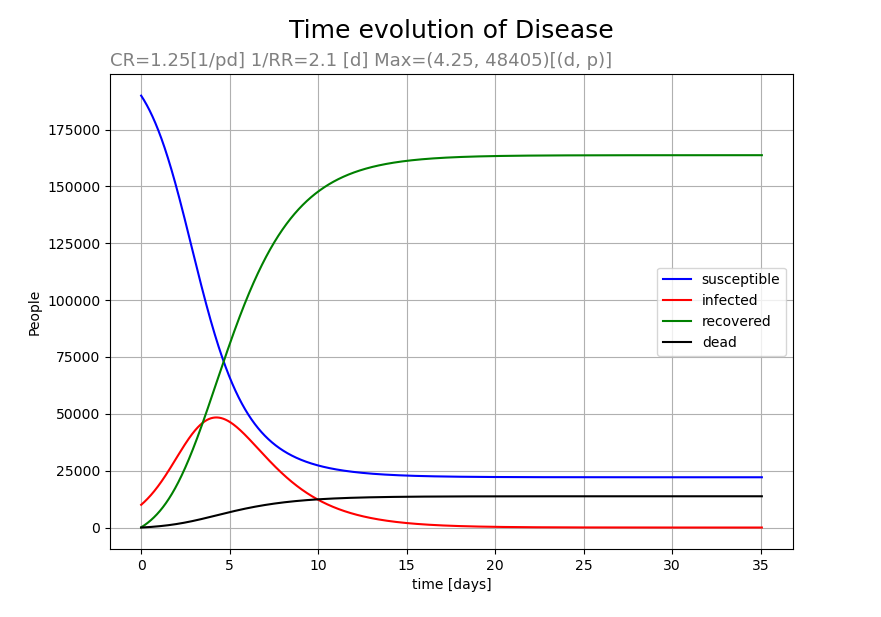
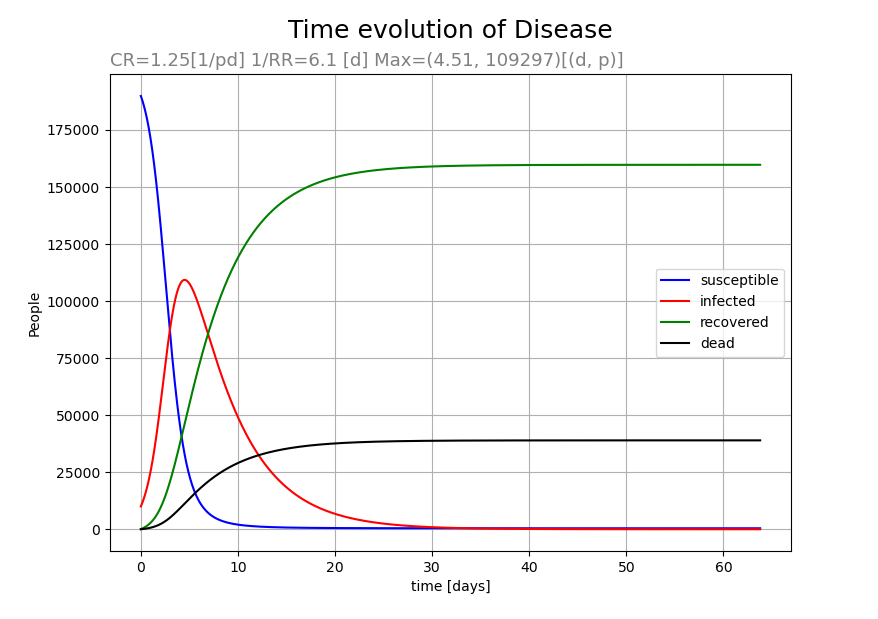
update

diff --git a/fitData.py b/fitData.py
@@ -249,8 +249,8 @@ if __name__ == '__main__':
     ## INPUTS
     # =========================================================================
      
-    date_min = datetime(2020, 3, 1)        # lower bound of data range
-    date_max = datetime(2020, 3, 28)        # upper bound of data range
+    date_min = datetime(2020, 3, 17)        # lower bound of data range
+    date_max = datetime(2020, 3, 26)        # upper bound of data range
     date_prediction = datetime(2020, 3, 28) # prediction 
     # =========================================================================
     getRatesForDateRanges(date_min, date_max, date_prediction, graph=True)
@@ -259,29 +259,29 @@ if __name__ == '__main__':
     #===========================================================================
     #     ITERATION OF RANGE WITH delta_days WINDOW
     #===========================================================================
-    date_min = datetime(2020, 3, 1)        # lower bound of data range
-    date_max = datetime(2020, 3, 28)        # upper bound of data range
-     
-    delta_days = 1 # window of days for the mean( 2*delta_days + 1) 
-    date_min_MIN = date_min + timedelta(days=delta_days)
-    date_max_MAX = date_max - timedelta(days=delta_days)
-     
-    window_mean_infections = []
-    window_mean_deaths = []
-    window_mean_mortality = []
-     
-    date_min = copy(date_min_MIN)
-    date_max = date_min + timedelta(days= 2*delta_days + 1)
-     
-    while(date_max <= date_max_MAX):
-        results = getRatesForDateRanges(date_min, date_max, graph=False)
-         
-        window_mean_infections.append(results['spain'][0])
-        window_mean_deaths.append(results['spain'][1])
-        window_mean_mortality.append(results['spain'][2:4])
-         
-        date_min = date_min + timedelta(days=1)
-        date_max = date_min + timedelta(days= 2*delta_days + 1)
-     
-    graphRatesEvolution(window_mean_infections, window_mean_deaths, 
-                        window_mean_mortality, date_min_MIN, delta_days)
+#    date_min = datetime(2020, 3, 1)        # lower bound of data range
+#    date_max = datetime(2020, 3, 28)        # upper bound of data range
+#     
+#    delta_days = 1 # window of days for the mean( 2*delta_days + 1) 
+#    date_min_MIN = date_min + timedelta(days=delta_days)
+#    date_max_MAX = date_max - timedelta(days=delta_days)
+#     
+#    window_mean_infections = []
+#    window_mean_deaths = []
+#    window_mean_mortality = []
+#     
+#    date_min = copy(date_min_MIN)
+#    date_max = date_min + timedelta(days= 2*delta_days + 1)
+#     
+#    while(date_max <= date_max_MAX):
+#        results = getRatesForDateRanges(date_min, date_max, graph=False)
+#         
+#        window_mean_infections.append(results['spain'][0])
+#        window_mean_deaths.append(results['spain'][1])
+#        window_mean_mortality.append(results['spain'][2:4])
+#         
+#        date_min = date_min + timedelta(days=1)
+#        date_max = date_min + timedelta(days= 2*delta_days + 1)
+#     
+#    graphRatesEvolution(window_mean_infections, window_mean_deaths, 
+#                        window_mean_mortality, date_min_MIN, delta_days)

diff --git a/main.py b/main.py
@@ -12,7 +12,7 @@ from optimizers import stepOptimizer, modelOptimizerFromData
 
 if __name__ == '__main__':
     #===========================================================================
-    # BASIC RANGE
+    # BASIC RANGES AND EXAMPLES
     #===========================================================================
     ## Let be the parameters: (contagious_rate, recovery_rate) [1/day*people]
     params = [(0.265, 0.05), (2.5, 10.)]
@@ -36,9 +36,18 @@ if __name__ == '__main__':
     #===========================================================================
     # OPTIMIZATION OF STEP FOR FIXED PARAMETERS (Example)
     #===========================================================================
-    params = {'contagious_rate': 1.25, 'recovery_rate': 1/14, 'days': 200}
-    maximum_values = stepOptimizer(0.01, tolerance=0.0005, **params)
-
+    params = {'N_population': 6550000,
+              'contagious_rate': 0.2759, 
+              'recovery_rate': 0.0336, 
+              'mortality_rate': 0.0268, 
+              'days': 500,
+              't_step': 0.01}
+    DiseaseSimulation.setInitializers(day_0=17, infected_0=1990, 
+                                      dead_0=81, recovered_0=1)
+    #maximum_values = stepOptimizer(0.01, tolerance=0.005, **params)
+    model = DiseaseSimulation(**params)
+    model()
+    model.graph(grid=True)
     #===========================================================================
     # CALIBRATION FOR MADRID
     #===========================================================================

diff --git a/disease.py b/disease.py
@@ -46,8 +46,8 @@ class DiseaseSimulation(object):
     GROUPS_OF_RECOVERY = 1
     INFECTEDS_COULD_DIE = False
     STOP_WHEN_MAX_INFECTED_ACHIEVED = False
-    TOP_N = 1000000
-    PRINT = False
+    TOP_N = 500000
+    PRINT = True
     
     # Initial Values.
     DAY_0 = 0
@@ -119,7 +119,7 @@ class DiseaseSimulation(object):
        
        Considering People Die: {self.INFECTEDS_COULD_DIE} 
            Mortality: {self.MORTALITY*100:6.4f} %
-       Considering [{self.GROUPS_OF_RECOVERY}] groups of recovey
+       Considering [{self.GROUPS_OF_RECOVERY}] groups of recovery
        
   =================================================================
 """
@@ -214,6 +214,8 @@ class DiseaseSimulation(object):
                 self.__euler(i)
             if i >= self.TOP_N:
                 self._logPrint("WARNING: MAX ITERATIONS reached, Convergence NOT ACHIEVED")
+                self.time = [self.DAY_0+ j*self.t_step 
+                             for j in range(len(self.infected))]
                 break
             # Loop again if the process has not reached convergence
             ini_step = self.N_steps * iterations

diff --git a/optimizers.py b/optimizers.py
@@ -85,9 +85,9 @@ def modelOptimizerFromData(N_population,
     <tuple> The most upgraded parameter sets and time step achieved
     """
     
-    #TODO: Many variables could be grouped, avoiding single purpose definitions
-    #TODO: Refactor in simple functions, excessive extension and cumbersome
-    #TODO: Generalize the model for a general number of recoveries
+    # TODO: Many variables could be grouped, avoiding single purpose definitions
+    # TODO: Refactor in simple functions, excessive extension and cumbersome
+    # TODO: Generalize the model for a general number of recoveries
     
     aux_params = {**parameters0,
                   't_step': h_max,

diff --git a/README.md b/README.md
@@ -62,7 +62,14 @@ For example, in Spain, the average over a window of 2 days gives a local rate of
 
 (11075 if we do not round). As you see, we cannot naively assume estimations if these rates vary on time (It might needs a cumulative sum), but these rates gives an idea of its effect in the spread of the disease and the relation between two of them. The exact count  actually comes from a variation from the first rate and the second (in the mid way), which coincides with the activation of the cautionary actions of the government.
 
- 
+The fits can be run over all data making a local fit over a narrow window of days. In that case, we achieve a first approximation of the evolution of the rates, but its very sensitive to the window range and error is not given:
+
+![alt text]
+(https://github.com/migueldelafuente1/diseaseModel/blob/master/images/EvolutionOfRatesWindow1.png "Trends over the days with a window of +- 1 day (3 days)")
+
+![alt text]
+(https://github.com/migueldelafuente1/diseaseModel/blob/master/images/EvolutionOfRatesWindow2.png "Trends over the days with a window of +- 2 day (5 days)")
+
 ## disease.py    
  **disease** module has the Disease Models. The models has the following parameters:
 
@@ -74,6 +81,17 @@ For example, in Spain, the average over a window of 2 days gives a local rate of
 | contagious_rate | = 0.0 | 1/ day * persons | average number of contacts between people for a person per day times the probability of infection per contact |
 | recovery_rate | = 0.0 | 1/ day | inverse average time to overcome the disease and stop infecting others |
 | mortality | =0.0 |  | linear factor proportional to the infected |
+
+These are some examples for a population of 2e+5 people, for a disease with a contagious rate of 1.25, a 4% mortality, and recovery rates (inverse) = 2.1, 6.1, 18.1 days. The images show also when the peak occurs and how many will be infected.
+
+![alt text]
+(https://github.com/migueldelafuente1/diseaseModel/blob/master/images/EvolutionOfRatesWindow2.png "1/r = 2.1 example")
+
+![alt text]
+(https://github.com/migueldelafuente1/diseaseModel/blob/master/images/EvolutionOfRatesWindow2.png "1/r = 6.1 example")
+
+![alt text]
+(https://github.com/migueldelafuente1/diseaseModel/blob/master/images/EvolutionOfRatesWindow2.png "1/r = 18.1 example")
 
 ## optimizers.py
 **optimizers** has some functions to find the best parameters for the calculations.
@@ -127,7 +145,7 @@ Given these values for Madrid, lets run the program:
 
 ![alt text](https://github.com/migueldelafuente1/diseaseModel/blob/master/images/OptimizingRatesMadrid.png "Optimizing parameters Madrid")
 
-Under 60 iterations, the parameters result:
+After 60 iterations, the parameters result:
 	
 	=================================================================
 	   ***         DISEASE SIMULATION, SIR MODEL: INPUTS       ***
@@ -144,7 +162,7 @@ Under 60 iterations, the parameters result:
 		   Considering [1] groups of recovery
 	=================================================================
 
-The value of the mortality went half underestimated if compared with the estimation in Spain (see below results of fitData.py for the same period), the value of contagious rate is quite overestimated (3.6 times the empirical value). The recovery rate (the inverse) fit quite well with the average value of recovery: oftenly 2 weeks, 3-6 week when complications. (`1/0.0336=29.8 days = 4.25 weeks`)
+The value of the mortality went half underestimated if compared with the estimation in Spain (see below results of fitData.py for the same period), the value of contagious rate is quite overestimated (3.6 times the empirical value). The recovery rate (the inverse) fit quite well with the average value of recovery: oftenly 2 weeks, 3-6 week when complications. (`1/0.0336 = 29.8 days = 4.25 weeks`)
  
 	SPAIN   data from [2020-03-17] to [2020-03-26]
 	-----------------------------------------
@@ -155,5 +173,8 @@ The value of the mortality went half underestimated if compared with the estimat
 	        2020-03-28 : death= 7833.0
 
 The result for the model is:
+
 ![alt text]
 (https://github.com/migueldelafuente1/diseaseModel/blob/master/images/ResultOptimizationMadrid.png "(Unreliable) Evolution of Covid in Madrid")
+
+As we can see, if we use 4 static (and independent) parameters, the prediction is quite apocalyptic and not reliable. In reality, these parameters depends on the system and vary with the time, specially the contagious rate, which is dependent on the number of contacts (drastically reduced with the generalized quarantine).
